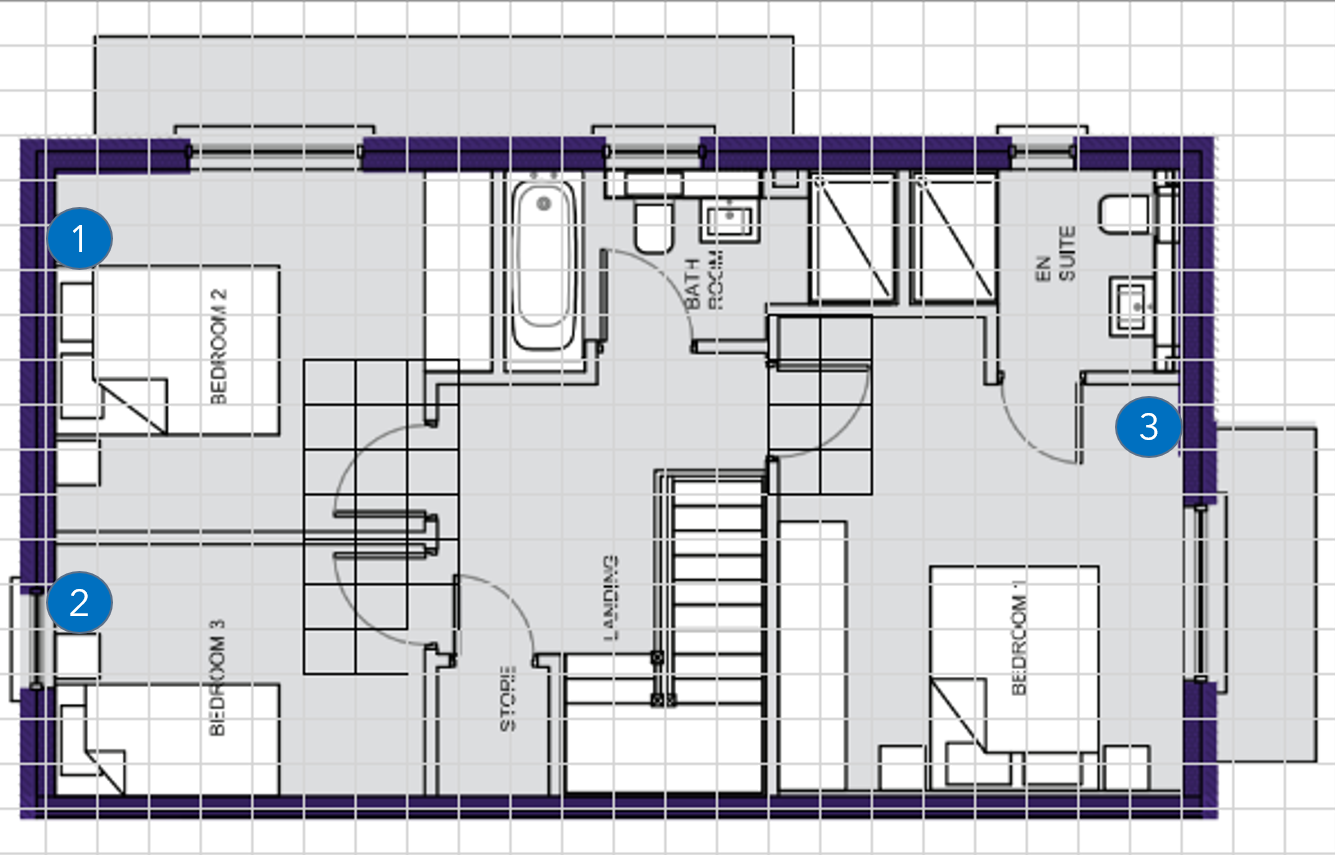
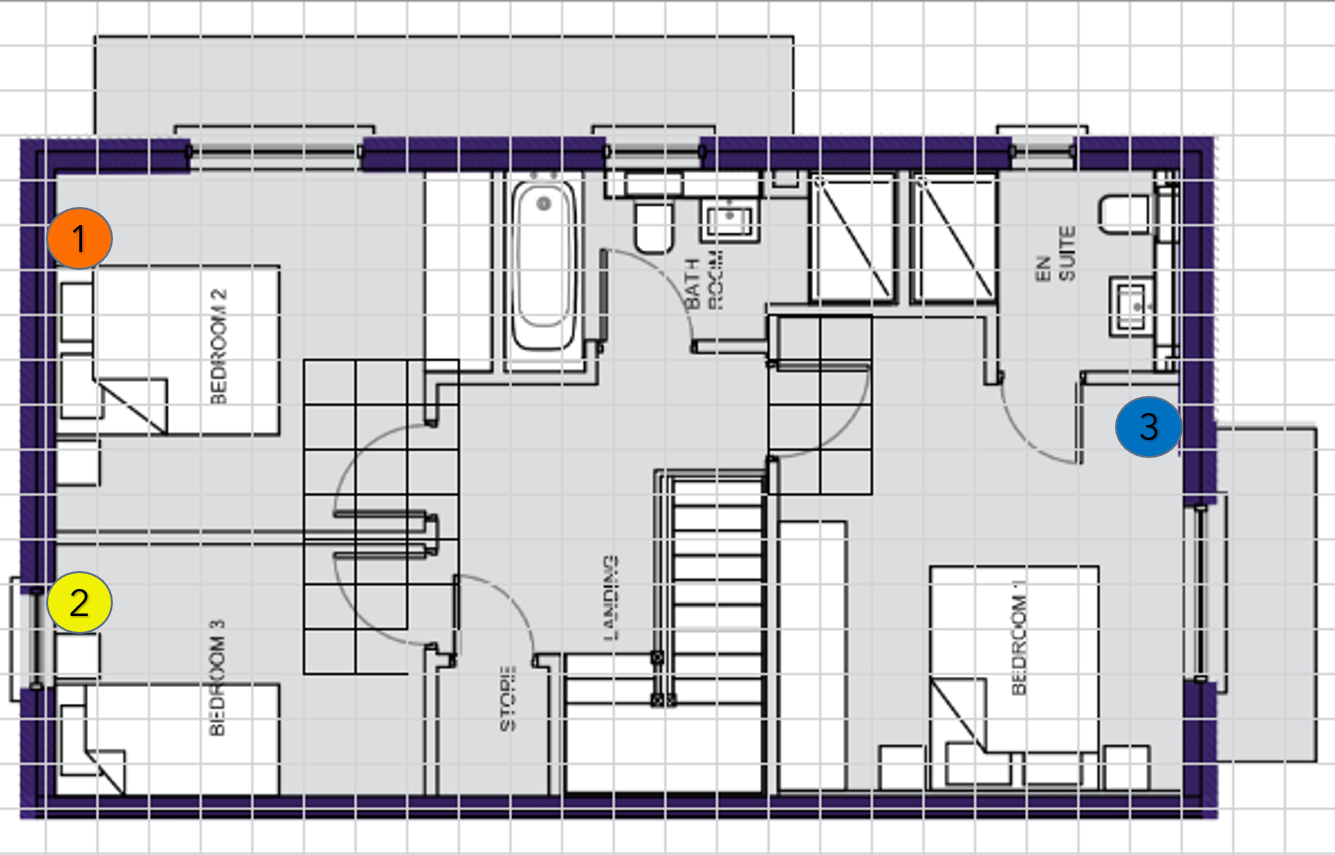
Within this Commit: Main.py - aesthetics update of floor plan for room identifiers
Images - uploading updated images

Changed region(s): [[0.0307, 0.669, 0.0921, 0.7602], [0.0307, 0.2433, 0.0921, 0.3345], [0.8599, 0.4865, 0.8906, 0.517]]

diff --git a/main.py b/main.py
@@ -269,7 +269,7 @@ canvas.create_image(0, 0, image=bg, anchor="nw")
 
 # Define Tag
 # coordinates_tag = 200, 100, 250, 150  # x1, y1, x2, y2
-tag_object = canvas.create_oval(x_coord, y_coord, x_coord + 30, y_coord + 30, fill="#FFFF00")
+tag_object = canvas.create_oval(x_coord, y_coord, x_coord + 30, y_coord + 30, fill="#00B050")
 
 
 def left(event):
